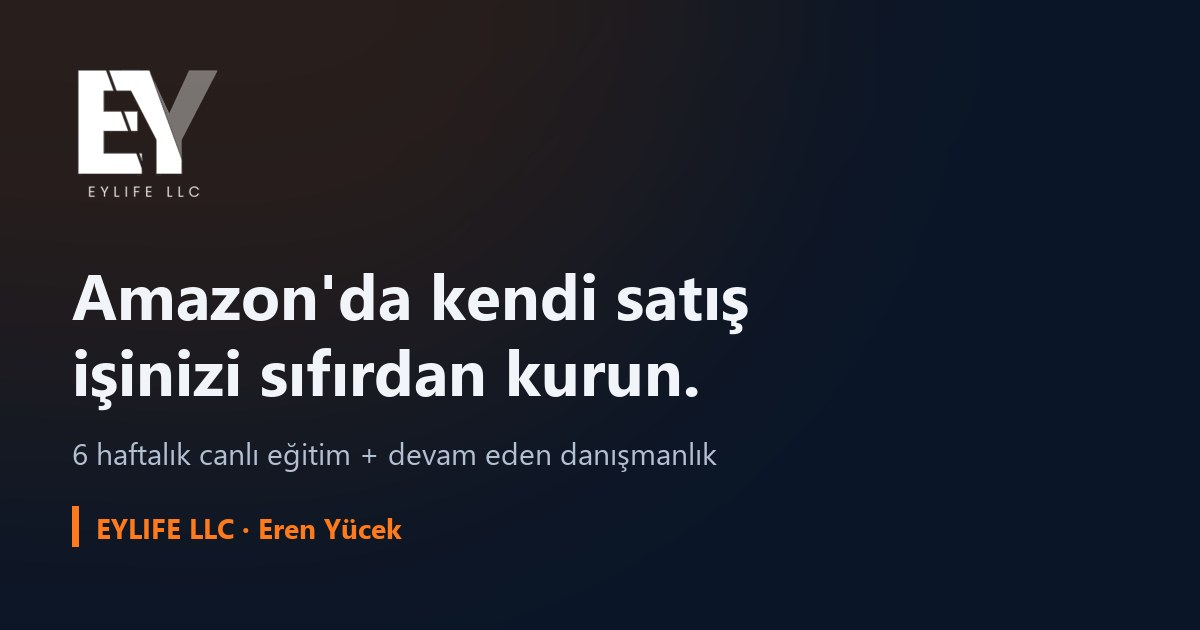
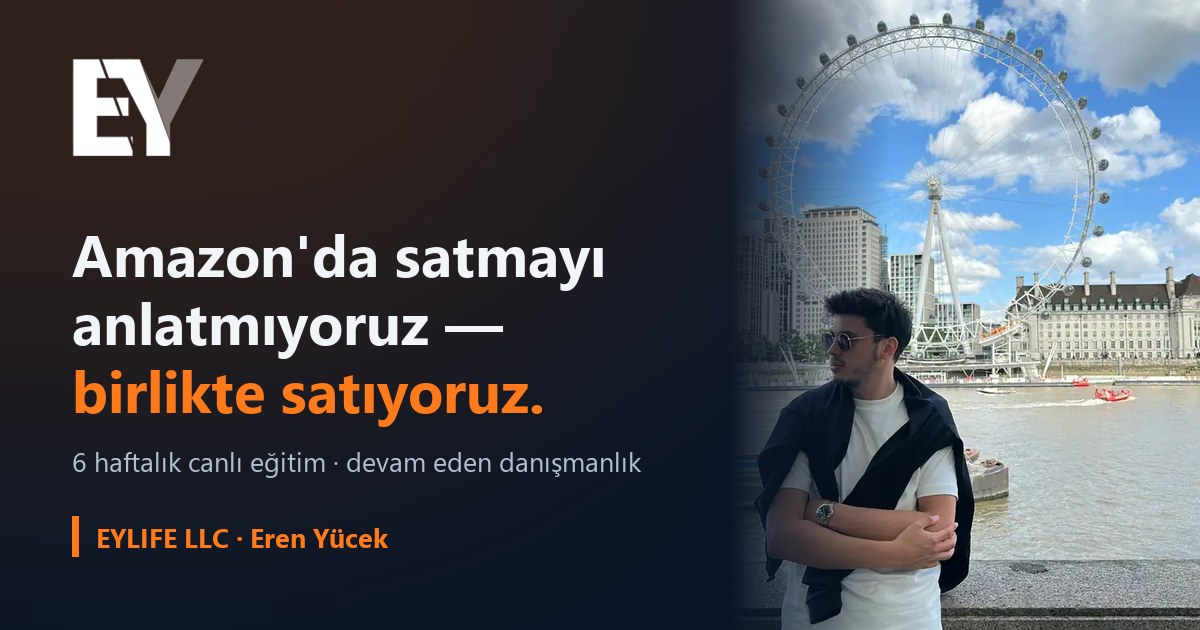
Paylasim onizleme karti duzeltildi: og adresleri canli adrese cekildi, gorsel yenilendi

diff --git a/index.html b/index.html
@@ -11,10 +11,15 @@
 <meta property="og:locale" content="tr_TR">
 <meta property="og:site_name" content="EYLIFE LLC">
 <meta property="og:title" content="Amazon Eğitim ve Danışmanlık — EYLIFE LLC">
-<meta property="og:description" content="6 haftalık canlı eğitim ve devam eden danışmanlık. Şirket kuruluşundan ilk kolinize kadar.">
-<!-- og:url / og:image mutlak adres olmalı. Yayına alırken nihai adrese güncelleyin. -->
-<meta property="og:url" content="https://novece.com/onizleme/erenyc-c4bd3d5b172a70f447/">
-<meta property="og:image" content="https://novece.com/onizleme/erenyc-c4bd3d5b172a70f447/assets/img/og.jpg">
+<meta property="og:description" content="8 yıldır Amazon'da aktif satan bir ekiple 6 haftalık canlı eğitim. Şirket kuruluşundan ilk satışınıza kadar birlikte uyguluyoruz.">
+<!-- og:url / og:image MUTLAK adres olmalı ve sayfanın gerçekten yayınlandığı
+     adresi göstermelidir; aksi halde WhatsApp/Telegram önizleme kartı çıkmaz.
+     Site novece.com'a taşınırsa bu iki satır oraya güncellenmelidir. -->
+<meta property="og:url" content="https://novece-dev.github.io/erenyc-c4bd3d5b172a70f447/">
+<meta property="og:image" content="https://novece-dev.github.io/erenyc-c4bd3d5b172a70f447/assets/img/og.jpg">
+<meta property="og:image:width" content="1200">
+<meta property="og:image:height" content="630">
+<meta property="og:image:alt" content="EYLIFE LLC — Amazon eğitim ve danışmanlık">
 <meta name="twitter:card" content="summary_large_image">
 <link rel="icon" href="assets/img/favicon.svg" type="image/svg+xml">
 <link rel="preload" as="image" href="assets/img/eren-hero.webp" fetchpriority="high">
